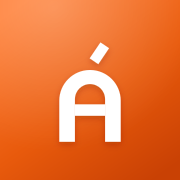
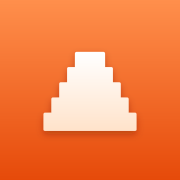
Ícono nuevo: la pirámide de Cholula (Mono) en web, PWA, Android e iOS
Adam dejó la elección a Claude entre los cuatro tratamientos de la ronda 3; queda Mono:
cinco gradas blanco→crema sobre naranja, la que mejor lee a 30 px y como monocromo.
Todo sale de scripts/generar-icono.mjs: icono.svg/maskable, PNG 192/512, apple-touch,
favicon, og, ic_launcher adaptativo y monocromo, isotipo y notificación de Android,
AppIcon-1024 e Isotipo.svg de iOS (sin clipPath ni filtros). sw.js pasa a agora-v5.
desplegar.ps1 gana -PermitirSinCommitear para desplegar HEAD mientras otra sesión
trabaja en archivos que no entran en las imágenes.

Agente: claude-code

diff --git a/apps/web/componentes/isotipo.tsx b/apps/web/componentes/isotipo.tsx
@@ -1,6 +1,7 @@
 /**
- * Isotipo de Ágora: la Á como arco de portal (los portales del zócalo de
- * Cholula, la plaza junto al campus).
+ * Isotipo de Ágora: la pirámide de Cholula, de cinco gradas, sobre naranja
+ * (concepto «Mono», elegido el 21-10-2026). Fuente única:
+ * scripts/generar-icono.mjs, que también produce los íconos de Android e iOS.
  *
  * Es una <img> del mismo /icono.svg que usan la PWA y el favicon, no un SVG en
  * linea: el icono trae degradados y una sombra con ids propios, y varias copias

diff --git a/apps/web/public/sw.js b/apps/web/public/sw.js
@@ -8,7 +8,8 @@
  * Solo se cachean assets estáticos inmutables (icono, manifest, offline).
  */
 
-const CACHE = 'agora-v4';
+// v5: ícono nuevo (pirámide), 21-10-2026. Subir la versión invalida los íconos cacheados.
+const CACHE = 'agora-v5';
 const ESTATICOS = [
   '/manifest.webmanifest',
   '/icono.svg',

diff --git a/.ai/RELEVO.md b/.ai/RELEVO.md
@@ -15,10 +15,14 @@ Rollback: imágenes `prev-20261021-1320` (= las del 19-10). Antes del deploy el 
 (→ 88 %); tras el build volvió a 93 % y se podó toda la caché de build. El disco sigue
 crónico: el aviso de ntfy (>80 %) va a seguir sonando hasta que se libere algo de otros
 proyectos (nunca `volume prune`).
-- **`scripts/generar-icono.mjs`**: fuente única del set de íconos (web/PWA, og, Android
-  adaptativo + monocromo + notificación + isotipo, iOS AppIcon + Isotipo.svg), parametrizado
-  por concepto (`mono|cristal|noche|amanecer`). `CONCEPTO_ACTUAL` queda en `mono` como marcador;
-  **no se ha corrido sobre el repo** hasta que Adam elija letra (`--salida` previsualiza fuera).
+- **Ícono nuevo aplicado: «Mono»** (pirámide de Cholula de cinco gradas, blanco→crema sobre
+  naranja; Adam dejó la elección a Claude el 21-10). Fuente única `scripts/generar-icono.mjs`
+  (`CONCEPTO_ACTUAL = 'mono'`; los otros tres conceptos siguen ahí): regenera web/PWA
+  (`icono*.svg/png`, `apple-touch-icon`, `favicon.ico`, `og.svg/png`), Android (`ic_launcher_*`,
+  `agora_isotipo`, `ic_notification`) e iOS (`AppIcon-1024.png`, `Isotipo.svg` sin clipPath ni
+  filtros). `sw.js` subió a `agora-v5` para que los navegadores suelten el ícono viejo. Los
+  vectores de Android/iOS están validados como XML pero **sin compilar** aquí (la sesión de
+  móvil corre gradle en el mismo checkout; su `assembleDebug` los compila).
 
 - **Móvil:** Android compila en local (último `assembleDebug` 19-10), sin release a Play.
   iOS nunca se ha compilado: `ios.yml` y `ci.yml` mueren en 5 s por el cobro de GitHub
@@ -176,9 +180,7 @@ Retomado desde el turno de Cursor del 07-10 (Fase 0 de ÁGORA 2.0, plan en
 
 ## Siguiente paso
 
-1. Adam elige el ícono (ronda 3) → poner `CONCEPTO_ACTUAL`, `node scripts/generar-icono.mjs`,
-   subir `CACHE` en `apps/web/public/sw.js` (agora-v4 → v5), commit y deploy.
-2. Probar en producción con una cuenta real: crear cuenta, entrar con contraseña, olvidé,
+1. Probar en producción con una cuenta real: crear cuenta, entrar con contraseña, olvidé,
    cambiar en Ajustes (la sesión lateral de móvil está en marcha: no hacer `cerrar` con
    `add -A` mientras trabaje; commits con rutas explícitas).
 3. Android/iOS: pantalla de contraseña (`/auth/entrar` modo token) y crear contraseña tras el código.
